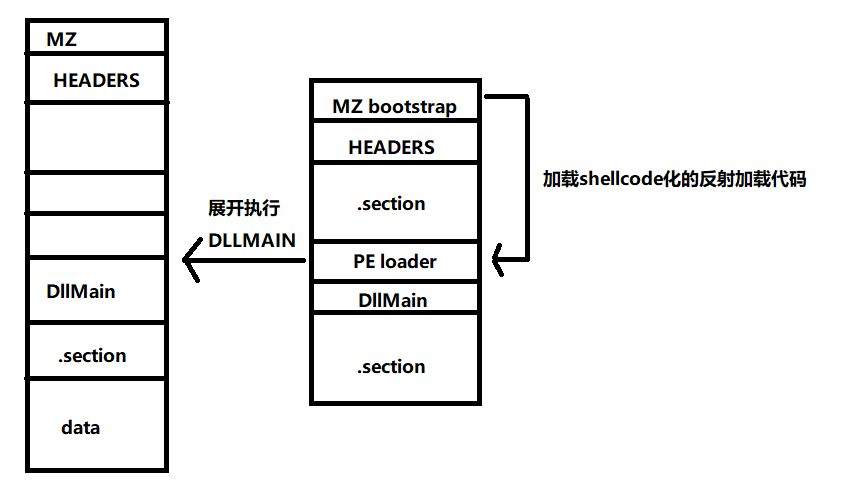
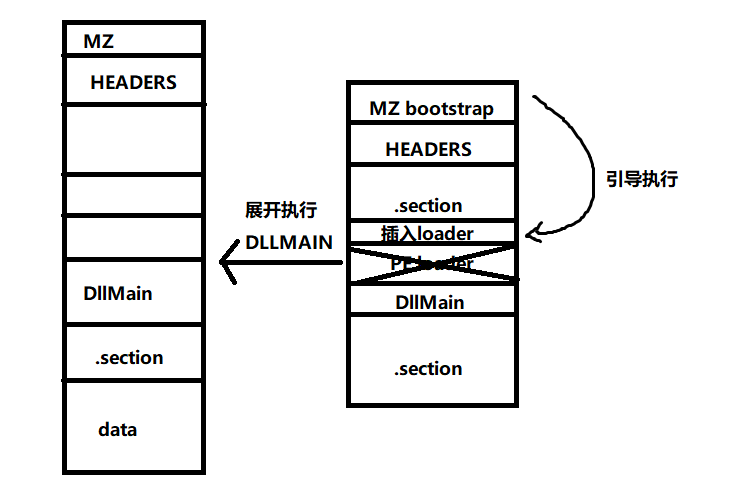
GitBook: [master] one page and 3 assets modified

Changed region(s): [[0.0304, 0.0312, 0.9431, 1.0], [0.7302, 0.2188, 0.7606, 0.2812]]

diff --git a/defense-evasion/reflectivedllinjection-variation.md b/defense-evasion/reflectivedllinjection-variation.md
@@ -70,19 +70,23 @@ call edx                 ;调用ReflectiveLoader
 
 上面的操作大概是这样的↓，学过shellcode开发的朋友可能知道，如果我们直接在DLL文件内编写加载函数是不能使用一些编写语法的如字符串、函数、CRT之类的东西的，就算要用系统函数也不能直接调用，前面我们使用的[ReflectiveDLLInjection](https://github.com/rapid7/ReflectiveDLLInjection)项目中ReflectiveLoader函数源码其实是经过特殊处理的，它遵循shellcode的开发限制，把所有东西都编译到一起，也避免了所有字符串和依赖的限制，保证了的编译出来的代码在任意环境下都能使用，也就是这段代码抠出来是能直接使用的，如果我们编写一个可修补的dll比较麻烦，我们也可以利用这段反射加载的shellcode来对已有PE文件进行改造。
 
-![](../.gitbook/assets/image%20%28232%29.png)
+![](../.gitbook/assets/image%20%28233%29.png)
 
 改造思路：
 
-![](../.gitbook/assets/image%20%28233%29.png)
+![](../.gitbook/assets/image%20%28234%29.png)
 
 这种技术已经有比较成熟的开源项目[pe\_to\_shellcode](https://github.com/hasherezade/pe_to_shellcode.git)，这个老哥用汇编实现了一个反射加载的stub\(太硬核了\)，同样我们也用上一种应用的思路对这个stub进行优化，加载后抹除PE的特征，在这个基础上，我们可以快速对一个已有的功能模块进行修补。
 
 ### 优化
 
+上面的实现方式会对PE文件本身的大小产生影响，在哪年的黑帽大会上有一位究极老师傅公开过一种PE注入技术\(还有武器化的工具\)，原理是利用编译过程中产生的code caves\(编译过程文件对齐产生的空字节区\)，在这些区域插入loader stub，就可以避免改造后的PE文件体积增大，不过需要注入代码洞的大小不能小于loader stub的大小。
 
+看上去是这样的:
 
-### LINKS
+![](../.gitbook/assets/image%20%28232%29.png)
+
+## LINKS
 
 {% embed url="https://wbglil.github.io/2020/03/27/%E5%85%B3%E4%BA%8E%E5%8F%8D%E5%B0%84dll%E4%BF%AE%E8%A1%A5/" %}
 
